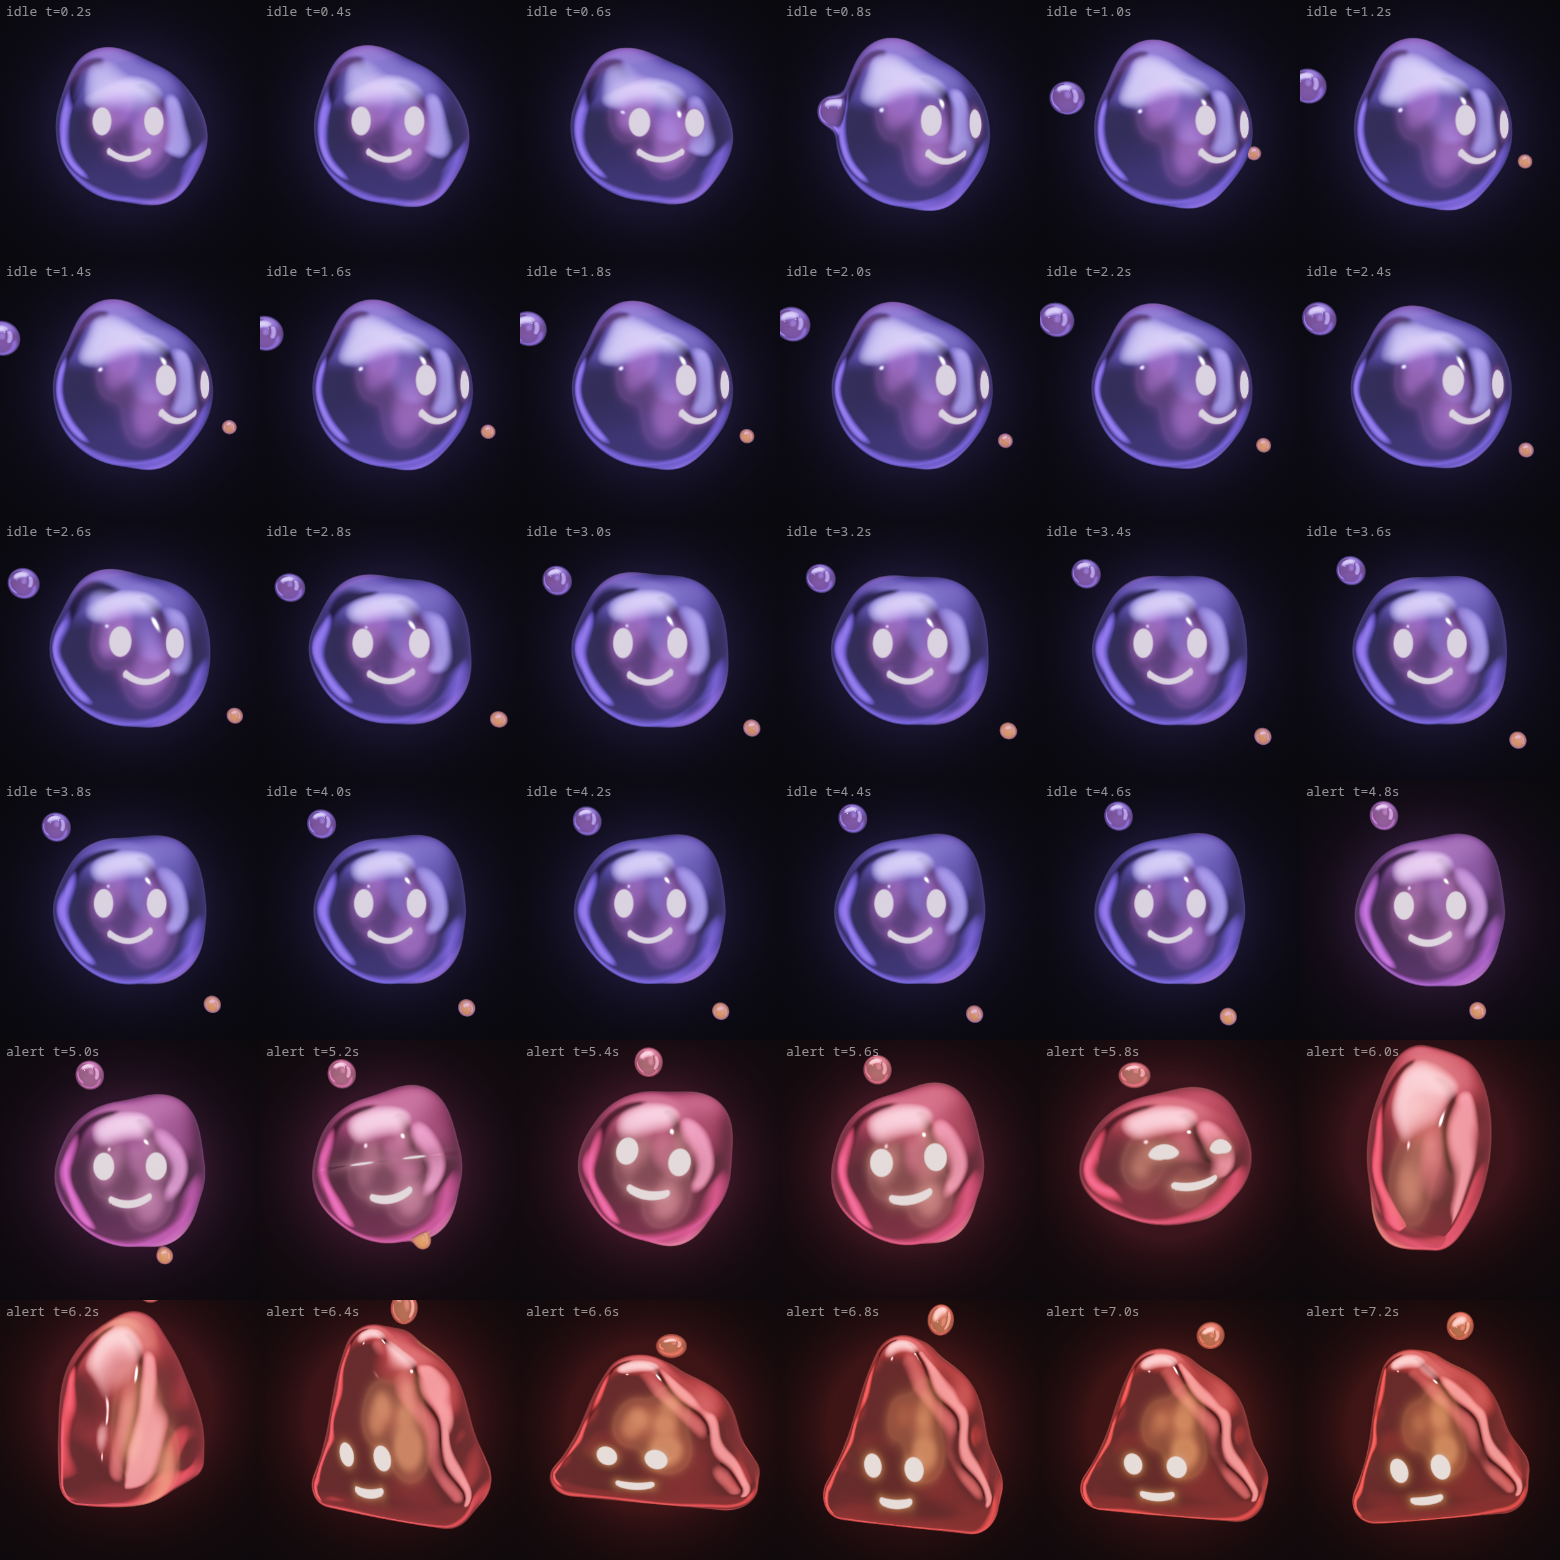
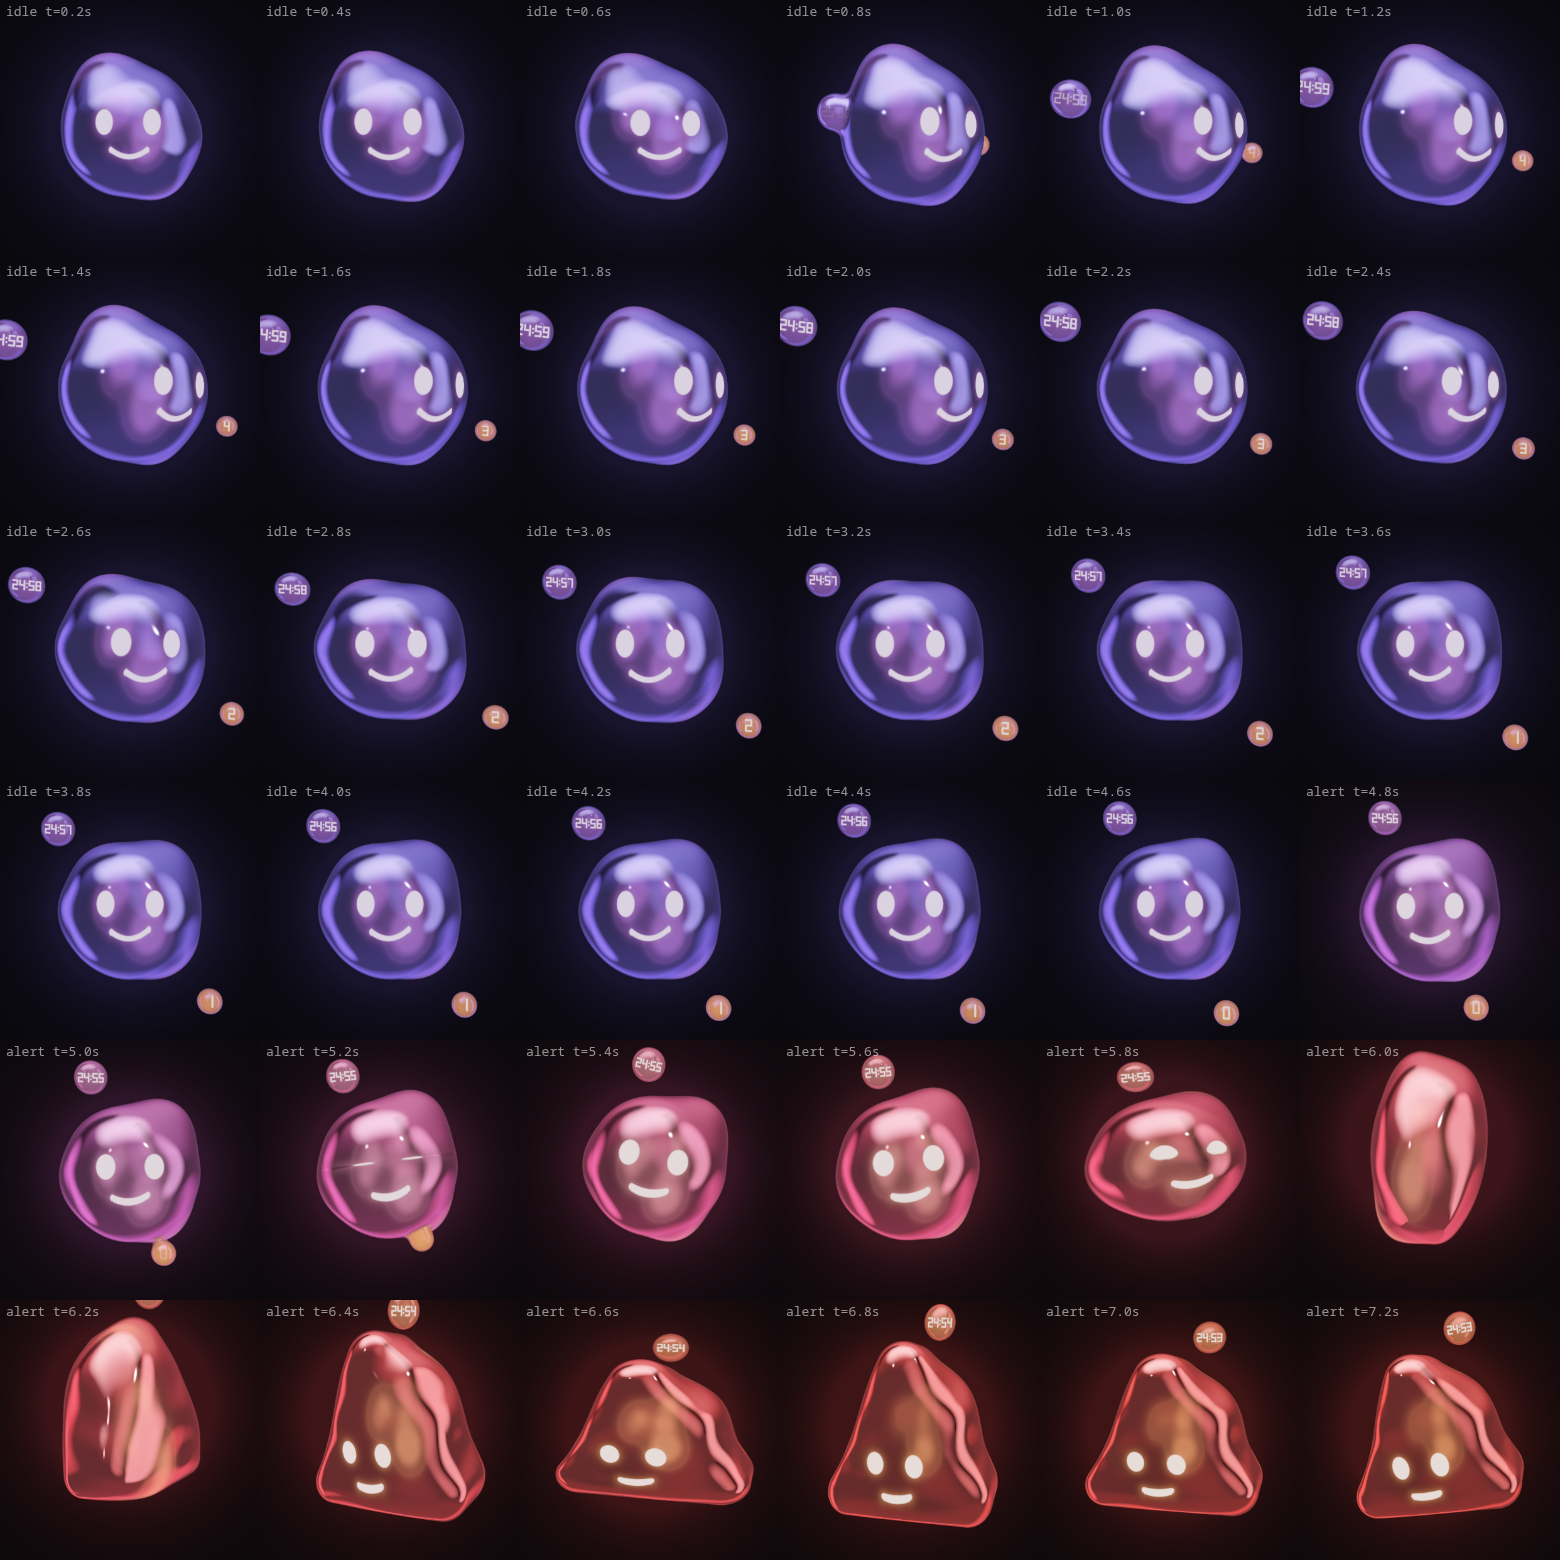
docs: timer droplets with digits in the look notes, design and screenshots

diff --git a/docs/notes/look.md b/docs/notes/look.md
@@ -120,7 +120,7 @@ Contact sheets in `docs/screenshots/motion/`: `clock`, `alert-timer-info`, `aler
 | What | How |
 |---|---|
 | Asleep | At night, once nothing has happened for `NIGHT_AWAKE_MS` (20 s), the idle blob sleeps. A tap or the wake word wakes it at once (the dim lifts in about 0.3 s) and it answers as usual; 20 s after the turn ends it falls asleep again (a 2.5 s fade). A turn, an alert being read and a ringing alarm keep it awake. |
-| Darker | `setDim('night', NIGHT_DIM)`, 0.2. The dim scales the light after the tone map (`uDim`), so the glints dim as much as the body: the brightest pixel goes from 255 to about 122 (sRGB), the mean of the frame from 34 to 14. Dimming `uBright` before the tone map (the first try) left the highlights almost as bright. The countdown and the fault line fade to 40 % (`body.night`). |
+| Darker | `setDim('night', NIGHT_DIM)`, 0.2. The dim scales the light after the tone map (`uDim`), so the glints dim as much as the body: the brightest pixel goes from 255 to about 122 (sRGB), the mean of the frame from 34 to 14. Dimming `uBright` before the tone map (the first try) left the highlights almost as bright. The fault line fades to 40 % (`body.night`); the timer drops and their digits dim with the body. |
 | Slower | `setMaxFps('night', NIGHT_FPS)`, 10 fps instead of 30. The lowest cap of all sources applies in every view, so a source must let go (`Infinity`) when something happens; night mode does so as soon as it wakes. |
 | Look | `SLEEP_LOOK`: the idle colours a little deeper, less glow, a third of the flow, a slow shallow breath, the eyes half shut (`eyeH` 0.045) looking slightly down, a soft smile. The eyes barely wander. Acts: `snooze` (the eyes fall shut, the head nods forward and settles back, no start and no kick) and now and then a `yawn`, every 20 to 45 s. |
 | Clock | No clock and no weather strip at night: the blob sleeps instead. Bright static digits all night are the worst case for screen wear, and nobody watches. Asking "hey blob, ¿qué hora es?" still works. |
@@ -140,14 +140,15 @@ Not verified: the tablet's real backlight. A web page cannot change it, so on an
 
 ## Timer droplets
 
-Each pending timer (`snapshot.timers`, an alert with `source=timer` in state `pending`) is a small drop of the blob's own liquid that orbits the body. Pasta and oven read at a glance with no numbers: two drops, the one that rings first is smaller. Logic in `render/droplets.ts`, the shader part in `blob.frag` (`uDrops`, `withDrops()`).
+Each pending timer (`snapshot.timers`, an alert with `source=timer` in state `pending`) is a small drop of the blob's own liquid that orbits the body, with the time left written inside it. Pasta and oven read at a glance (two drops, the one that rings first is smaller) and exactly (8:00, 45:00). Logic in `render/droplets.ts`, the shader part in `blob.frag` (`uDrops`, `withDrops()`, `dropTextDist()`).
 
 | What | How |
 |---|---|
-| Size | `dropRadius()`: 0.07 at 0 s to 0.19 at 2 h and more (the sphere is 0.78), on a log scale with a power, so an 8 minute pasta and a 45 minute oven are clearly apart (the oven holds over twice the volume) and each drop visibly shrinks as it runs. |
+| Size | `dropRadius()`: 0.12 at 0 s to 0.24 at 2 h and more (the sphere is 0.78), on a log scale with a power, so an 8 minute pasta and a 45 minute oven are clearly apart (the oven holds over twice the volume) and each drop visibly shrinks as it runs. The smallest drop still holds its digits. |
+| Time left | `dropText()`: m:ss under an hour (`45:00`, `8:00`), `1h30` from an hour (an "h" glyph, no colon), the seconds alone in the last minute (`37`: no colon, and the drop is glowing by then). Seconds round up, as in the diagnostics (`timerText()`). Seven-segment strokes like the clock's (`dropTextDist()`, the clock's `SEG` table), drawn like the face: a near white lava core over a darker patch of mirror. The text sits on a plane facing the camera, so it reads anywhere on the orbit; `textScale()` fits it inside the drop (shorter text is larger). It shows once the drop is off the body and goes as it falls back in or fades. |
 | Last minute | The drop glows warmer, towards the timer alert's lava (`ALERT_LAVA.urgent`), and pulses faster as the end nears (from once every 2 s to twice a second). |
 | Orbit | A ring seen from a little above: a drop passes in front below the face and behind above it, so it never covers the eyes or the clock digits. It hugs each shape (a squircle around the clock, the alert shapes and the sky; an ellipse round the sphere), follows a morph, turns once in about 25 s, and the drops spread evenly. A drop that comes or goes moves the others the least (the ring turns to their circular mean). The drops live in the body frame, so they hop, twirl and squash with it. |
-| Fit | Where the orbit does not fit the screen, the whole body scales down while timers run: about 0.65 on a portrait tablet, about 0.9 in landscape (the drops pass above and below). The small depth of the ring (0.25) keeps a drop in front from looking like a bigger timer. |
+| Fit | Where the orbit does not fit the screen, the whole body scales down while timers run: 0.6 to 0.65 on a portrait tablet, 0.82 to 0.93 in landscape (the drops pass above and below; less with a long timer's larger drop). The small depth of the ring (0.25) keeps a drop in front from looking like a bigger timer. |
 | Volume (#34) | One body, one volume: the body gives the drops their volume (`vol` in `Droplets.write()`), so body plus drops always hold the sphere's. |
 | A timer starts | Its drop pinches off the body (smooth-min, `dropK()` smaller than the orbit gap, so an orbiting drop stays round) and moves out in 1.4 s. |
 | A timer fires | Its key leaves `timers` and shows up in `alerts`: the drop falls back to the body, sinks in through a liquid neck (1.1 s), the body gulps (a squash kick), and only then the morph to the alert shape starts. The alert, colour and alarm start at once as before. During a turn the drop still falls in; the alert stays held until the turn ends. |
@@ -155,8 +156,8 @@ Each pending timer (`snapshot.timers`, an alert with `source=timer` in state `pe
 | Many timers | The soonest `MAX_DROPS` (6) get a drop. |
 | Night and presence | The drops are lit like the body, before `uDim`, so the night dim and the presence black take them too, and they move at the night's 10 fps. Timers are urgent: one that fires at night or on the dark empty-room screen shows the alert, which lights the face, rings, and the drop falls in before the triangle (`e2e/presence.spec.ts`). |
 
-The text countdown above the blob (#24) is gone: the face shows state by shape and colour, not text, and two encodings of the same thing would compete for the eye. The exact time left is one question away ("¿cuánto le queda al temporizador?" goes to Hermes, which lists the timers with `GET /alerts`), and the long-press diagnostics show it (`timers`).
+The text countdown above the blob (#24) moved into the drops: each timer's time is on its own drop, so with two timers each number is plainly its drop's. A first version had no numbers at all (size and colour only); in use, a kitchen timer is only useful if it says how long is left. The long-press diagnostics still list the timers (`timers`).
 
-Cost. The droplet code is compiled only once a timer has been pending (`DROPS` define, like `WEATHER`: one shader rebuild then), so a page without timers costs what it did: 89 to 90 ms per frame at idle in SwiftShader, as on main. With three drops: 110 ms at quality 2 (+23%), about +10% at qualities 1 and 0; software GL runs every uniform branch, a GPU skips the drops' loop beyond `uDropN`.
+Cost. The droplet code is compiled only once a timer has been pending (`DROPS` define, like `WEATHER`: one shader rebuild then), so a page without timers costs what it did: 89 to 90 ms per frame at idle in SwiftShader, as on main. With three drops (and their digits): 114 to 137 ms at quality 2 (+20 to 40%, noisy), about +10% at qualities 1 and 0; software GL runs every uniform branch, a GPU skips the drops' loop beyond `uDropN`. The digits are only worked out on the pixels of a drop's front.
 
 Screenshots: `docs/screenshots/timers-{2,3,clock}-{1280x800,800x1280}.png`. Contact sheets: `motion/timer-droplets` (two timers pinch off, the short one ripens, fires and falls in, then the triangle) and `motion/timer-droplets-cancel` (a cancelled drop fades, a new one pinches off).

diff --git a/docs/designs/blob_design.md b/docs/designs/blob_design.md
@@ -235,7 +235,7 @@ Two data tables in the page, not in code branches:
 *   Conversation state to colour and motion: `idle` deep blue/violet with slow breathing, `listening` cyan deforming with the microphone level, `thinking` amber with slow breathing, `speaking` warm white pulsing with playback level, `error` dim grey.
 *   Alert source and urgency to shape, colour and pulse speed. Slice 4 starts with two shapes: triangle for `timer`, square for every other source. `info` is green and `urgent` is red (constants in `tables.ts`), and `urgent` pulses at twice the rate of `info` (a constant in `tables.ts`). A morph between two shapes uses `mix(sdfA, sdfB, t)` with the march step shortened to about 0.7.
 
-Pending timers (`snapshot.timers`) orbit the blob as droplets, one per timer, smaller as less time is left, warmer in the last minute. When a timer fires, its drop falls back into the body (smooth-min) before the alert shape takes over. They replace the text countdown. Details in `docs/notes/look.md`, "Timer droplets".
+Pending timers (`snapshot.timers`) orbit the blob as droplets, one per timer, smaller as less time is left, warmer in the last minute, each with its time left inside it in seven-segment digits (m:ss, 1h30 from an hour). When a timer fires, its drop falls back into the body (smooth-min) before the alert shape takes over. The text countdown above the blob moved into the drops. Details in `docs/notes/look.md`, "Timer droplets".
 
 The shader is one fullscreen quad. Transparency is a fresnel term over a procedural dark environment, tinted per state. There is no refraction pass. Tablet cost controls: render at 0.75 scale, exit early outside a bounding sphere, cap idle at 30 fps, handle `webglcontextlost`.
 
